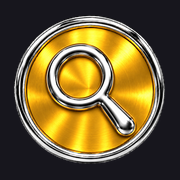
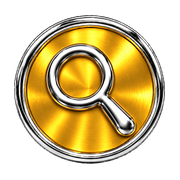
icone do iPhone com fundo branco; convite com borda dourada em gradiente, sombra em camadas e selo 'gratis no Telegram'

diff --git a/paginas/todos.html b/paginas/todos.html
@@ -18,7 +18,7 @@
 <!-- ⚠ E SEM ISTO O ICONE VIRA UMA LETRA "A" CINZA: o iOS desenha a inicial
      quando nao acha `apple-touch-icon`. O arquivo tem de existir no deploy —
      ver `publicar_bio.py`, que copia o PNG junto com o index. -->
-<link rel="apple-touch-icon" href="/icone_app.png">
+<link rel="apple-touch-icon" href="/icone_app.png?v=branco">
 <link rel="icon" href="/favicon.ico" sizes="any">
 <link rel="icon" type="image/png" href="/icone.png">
 <meta name="description" content="O catálogo do Achadinho Total: produto, preço acompanhado de hora em hora e link direto pra loja. O desconto é medido contra o preço que eu vi.">
@@ -2325,10 +2325,24 @@
      HTML cru mostrava o convite logo abaixo da busca. Grade vazia = convite
      escondido; ele so' existe depois dos produtos. */
   #grade:empty ~ .convite { display: none; }
+  /* ⭐ 24/09/2026 (dono: "card mais premium"), pelo acervo (Kevin Powell,
+     DEMONSTRADO): borda em GRADIENTE dourado fino (truque padding-box /
+     border-box) e sombra em CAMADAS -- uma curta que assenta, uma longa e
+     quente que levanta. Fundo continua claro (regra: so' fundo branco). */
   .convite {
-    margin: 30px 0 0; border: 1px solid var(--linha); border-radius: 16px;
-    background: var(--caixa); padding: 20px; text-align: center;
+    margin: 30px 0 0; border: 1px solid transparent; border-radius: 20px;
+    background:
+      radial-gradient(120% 90% at 50% 0%, #fff8e6 0%, #fff 60%) padding-box,
+      linear-gradient(135deg, #f2d27a, #fff3cf 35%, #d9a93a 65%, #f7e2a4) border-box;
+    padding: 24px 20px 22px; text-align: center;
+    box-shadow: 0 1px 2px rgba(60, 40, 0, .06), 0 14px 34px -12px rgba(170, 120, 20, .28);
   }
+  .convite .selo-convite {
+    display: inline-block; margin: 0 0 10px; padding: 4px 11px; border-radius: 999px;
+    font: 600 11px/1 var(--mono); letter-spacing: .12em; text-transform: uppercase;
+    color: #9a6c0c; background: #fff4d6; border: 1px solid #f0d58c;
+  }
+  .convite .botao { box-shadow: 0 0 0 3px #fff, 0 0 0 4px #e8c35e, 0 10px 22px -8px rgba(20, 16, 30, .45); }
   .convite h2 { font-size: 18px; margin: 0 0 6px; }
   .convite p { margin: 0 0 14px; color: var(--fraco); font-size: 14px; }
   .botao {
@@ -2927,6 +2941,7 @@
   <section class="convite">
     <span class="coracao-convite esq" aria-hidden="true"><picture><source media="(max-width: 759px)" srcset="/baloes/inaug_coracao_p.webp"><img src="/baloes/inaug_coracao.webp" alt="" decoding="async" loading="lazy"></picture></span>
     <span class="coracao-convite dir" aria-hidden="true"><picture><source media="(max-width: 759px)" srcset="/baloes/inaug_coracao_p.webp"><img src="/baloes/inaug_coracao.webp" alt="" decoding="async" loading="lazy"></picture></span>
+    <span class="selo-convite">grátis · no Telegram</span>
     <h2>As quedas de preço no seu celular</h2>
     <p>Cada queda boa que eu encontro cai direto no seu Telegram.</p>
     <a class="botao" href="https://t.me/achadinhototal" target="_blank" rel="noopener" id="tg">

diff --git a/paginas/contra_capa.html b/paginas/contra_capa.html
@@ -16,7 +16,7 @@
      inicial quando nao acha `apple-touch-icon`. O arquivo sobe junto no
      deploy — ver `_por_icone()` em `publicar_bio.py`, que copia nas DUAS
      pastas (bios e site mae). -->
-<link rel="apple-touch-icon" href="/icone_app.png">
+<link rel="apple-touch-icon" href="/icone_app.png?v=branco">
 <link rel="icon" href="/icone.png">
 <!-- ⭐ SEO (22/09/2026, item 8 da fila): NOINDEX de proposito. Esta MESMA
      pagina e' publicada em 5-7 subdominios (um por canal) com o mesmo HTML

diff --git a/paginas/gerar_icones.py b/paginas/gerar_icones.py
@@ -45,7 +45,8 @@ MESTRE = AQUI / "logo_achadinho_mestre.png"
 
 # ⚠ A MESMA COR DE FUNDO DO ICONE ANTIGO (#17161D), medida nele antes de
 # trocar. Icone de tela de inicio que muda de cor parece app trocado.
-FUNDO_APP = (23, 22, 29)
+# ⭐ 24/09/2026 (dono): BRANCO -- a marca e o site sao sempre claros.
+FUNDO_APP = (255, 255, 255)
 
 # ⚠ MARGENS DIFERENTES DE PROPOSITO.
 #
